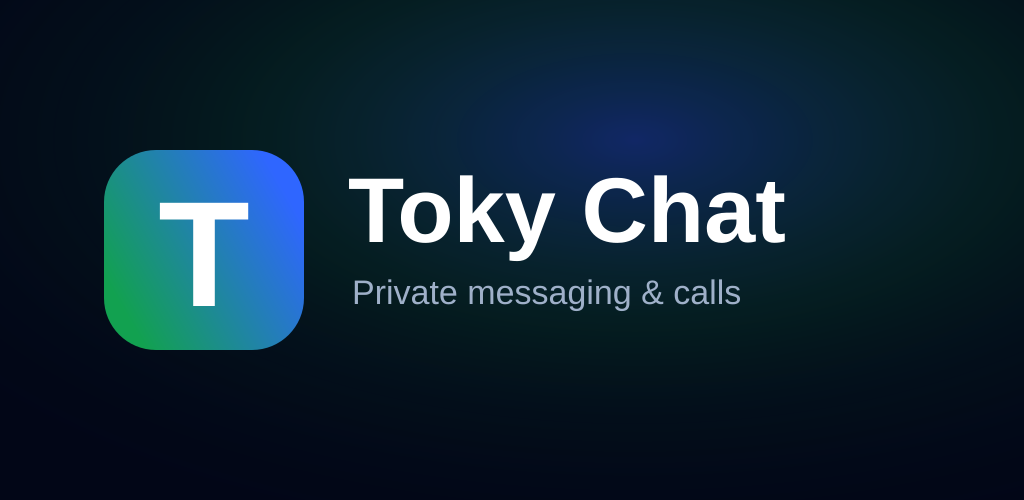
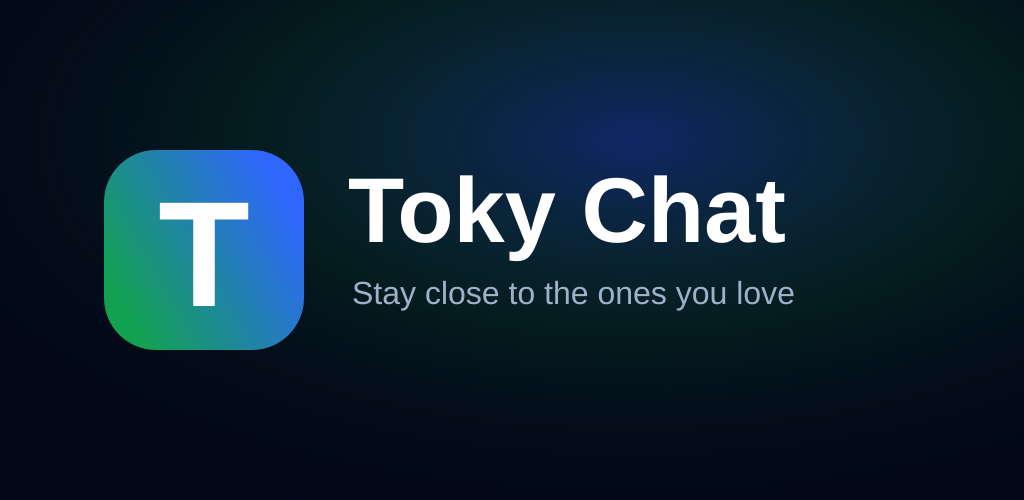
Reposition store copy around connection ("the people you love") (#8)
Shift the brand promise from 'private messaging & calls' to staying close to the
people you love, with privacy as a supporting benefit. Updates the feature
graphic tagline and the subtitle/promo/description/keywords across STORE_LISTING
and STORE_SUBMISSION (EN + ES).

Claude-Session: https://claude.ai/code/session_01EuC7GRd1EMMmDhqLAwnDok

Changed region(s): [[0.3438, 0.54, 0.7812, 0.63]]

diff --git a/docs/STORE_LISTING.md b/docs/STORE_LISTING.md
@@ -19,8 +19,8 @@ this file is only the marketing listing.
 | Field | Value |
 |---|---|
 | **App Name** (≤30) | Toky Chat |
-| **Subtitle** (≤30) — EN | Private messaging & calls |
-| **Subtitle** (≤30) — ES | Mensajes y llamadas privados |
+| **Subtitle** (≤30) — EN | Stay close to those you love |
+| **Subtitle** (≤30) — ES | Cerca de quienes amas |
 | **Primary category** | Social Networking |
 | **Secondary category** | Productivity |
 | **Support URL** | https://mobile-chat-mvp.vercel.app/support |
@@ -29,22 +29,22 @@ this file is only the marketing listing.
 | **Age rating** | 17+ (user-generated content + communication) |
 
 **Promotional Text** (≤170) — EN
-> Fast, private messaging with voice & video calls, group chats, stories, and end-to-end encryption. Your conversations, your control.
+> Toky Chat keeps you close to the people you love — send messages, share moments, and jump on voice or video calls, one-on-one or in groups. Private by design.
 
 **Promotional Text** (≤170) — ES
-> Mensajería rápida y privada con llamadas de voz y video, grupos, historias y cifrado de extremo a extremo. Tus conversaciones, bajo tu control.
+> Toky Chat te mantiene cerca de quienes amas: envía mensajes, comparte momentos y haz llamadas de voz o video, individuales o en grupo. Privado por diseño.
 
 **Keywords** (≤100, comma-separated, no spaces) — EN
 ```
-chat,messenger,messaging,video call,voice call,groups,encrypted,private,stories,calls
+chat,messenger,family,friends,video call,voice call,groups,connect,private,calls
 ```
 **Keywords** (≤100) — ES
 ```
-chat,mensajería,mensajero,videollamada,llamadas,grupos,cifrado,privado,historias,mensajes
+chat,mensajería,familia,amigos,videollamada,llamadas,grupos,conectar,privado,historias
 ```
 
 **Description** (≤4000) — EN
-> Toky Chat is a fast, modern messenger for staying close to the people who matter. Send messages, share photos, videos, GIFs and emoji, react, and start voice or video calls — one-on-one or in groups. Turn on end-to-end encryption for private chats only you and the recipient can read. Share moments with stories, keep an eye on your call history, and get notified the moment a message arrives — even when the app is closed.
+> Toky Chat is where you stay close to the people you love — a fast, modern messenger for the people who matter most. Send messages, share photos, videos, GIFs and emoji, react, and start voice or video calls — one-on-one or in groups. Turn on end-to-end encryption for private chats only you and the recipient can read. Share moments with stories, keep an eye on your call history, and get notified the moment a message arrives — even when the app is closed.
 >
 > • Voice & video calls, with in-call switch to video
 > • Group chats, reactions, polls, and stories
@@ -52,10 +52,10 @@ chat,mensajería,mensajero,videollamada,llamadas,grupos,cifrado,privado,historia
 > • Block, report, and mute to stay in control
 > • Available in English and Spanish
 >
-> No ads. No tracking. Just conversations.
+> No ads. No tracking. Just the people you love.
 
 **Description** (≤4000) — ES
-> Toky Chat es un mensajero rápido y moderno para mantenerte cerca de las personas que importan. Envía mensajes, comparte fotos, videos, GIFs y emojis, reacciona e inicia llamadas de voz o video, individuales o en grupo. Activa el cifrado de extremo a extremo para chats privados que solo tú y el destinatario pueden leer. Comparte momentos con historias, revisa tu historial de llamadas y recibe notificaciones en el instante en que llega un mensaje, incluso con la app cerrada.
+> Toky Chat es donde te mantienes cerca de quienes amas: un mensajero rápido y moderno para las personas que más importan. Envía mensajes, comparte fotos, videos, GIFs y emojis, reacciona e inicia llamadas de voz o video, individuales o en grupo. Activa el cifrado de extremo a extremo para chats privados que solo tú y el destinatario pueden leer. Comparte momentos con historias, revisa tu historial de llamadas y recibe notificaciones en el instante en que llega un mensaje, incluso con la app cerrada.
 >
 > • Llamadas de voz y video, con cambio a video durante la llamada
 > • Chats grupales, reacciones, encuestas e historias
@@ -63,7 +63,7 @@ chat,mensajería,mensajero,videollamada,llamadas,grupos,cifrado,privado,historia
 > • Bloquea, reporta y silencia para mantener el control
 > • Disponible en español e inglés
 >
-> Sin anuncios. Sin rastreo. Solo conversaciones.
+> Sin anuncios. Sin rastreo. Solo quienes amas.
 
 **App Review — Notes to reviewer**
 > The app's UI loads from our hosted web app inside a native shell (Capacitor);
@@ -89,13 +89,13 @@ chat,mensajería,mensajero,videollamada,llamadas,grupos,cifrado,privado,historia
 | **Content rating** | Teen / Mature 17+ (IARC questionnaire) |
 
 **Short description** (≤80) — EN
-> Private messaging with voice & video calls, groups, and encryption.
+> Stay close to the people you love — chats, voice & video calls, and groups.
 
 **Short description** (≤80) — ES
-> Mensajería privada con llamadas de voz y video, grupos y cifrado.
+> Mantente cerca de quienes amas: chats, llamadas de voz y video, y grupos.
 
 **Full description** (≤4000) — EN
-> Toky Chat is a fast, modern messenger for staying close to the people who matter. Send messages, share photos, videos, GIFs and emoji, react, and start voice or video calls — one-on-one or in groups. Turn on end-to-end encryption for private chats only you and the recipient can read. Share moments with stories, keep an eye on your call history, and get notified the moment a message arrives — even when the app is closed.
+> Toky Chat is where you stay close to the people you love — a fast, modern messenger for the people who matter most. Send messages, share photos, videos, GIFs and emoji, react, and start voice or video calls — one-on-one or in groups. Turn on end-to-end encryption for private chats only you and the recipient can read. Share moments with stories, keep an eye on your call history, and get notified the moment a message arrives — even when the app is closed.
 >
 > Features:
 > • Voice & video calls, with in-call switch to video
@@ -104,10 +104,10 @@ chat,mensajería,mensajero,videollamada,llamadas,grupos,cifrado,privado,historia
 > • Block, report, and mute to stay in control
 > • Available in English and Spanish
 >
-> No ads. No tracking. Just conversations.
+> No ads. No tracking. Just the people you love.
 
 **Full description** (≤4000) — ES
-> Toky Chat es un mensajero rápido y moderno para mantenerte cerca de las personas que importan. Envía mensajes, comparte fotos, videos, GIFs y emojis, reacciona e inicia llamadas de voz o video, individuales o en grupo. Activa el cifrado de extremo a extremo para chats privados que solo tú y el destinatario pueden leer. Comparte momentos con historias, revisa tu historial de llamadas y recibe notificaciones al instante, incluso con la app cerrada.
+> Toky Chat es donde te mantienes cerca de quienes amas: un mensajero rápido y moderno para las personas que más importan. Envía mensajes, comparte fotos, videos, GIFs y emojis, reacciona e inicia llamadas de voz o video, individuales o en grupo. Activa el cifrado de extremo a extremo para chats privados que solo tú y el destinatario pueden leer. Comparte momentos con historias, revisa tu historial de llamadas y recibe notificaciones al instante, incluso con la app cerrada.
 >
 > Funciones:
 > • Llamadas de voz y video, con cambio a video durante la llamada
@@ -116,7 +116,7 @@ chat,mensajería,mensajero,videollamada,llamadas,grupos,cifrado,privado,historia
 > • Bloquea, reporta y silencia para mantener el control
 > • Disponible en español e inglés
 >
-> Sin anuncios. Sin rastreo. Solo conversaciones.
+> Sin anuncios. Sin rastreo. Solo quienes amas.
 
 **App access — test credentials** (Play Console → App content → App access)
 > All functionality requires sign-in. Provide these reviewer credentials:

diff --git a/docs/STORE_SUBMISSION.md b/docs/STORE_SUBMISSION.md
@@ -114,20 +114,20 @@ practices."
 ## 5. Store listing copy
 
 **App name:** Toky Chat
-**Subtitle (Apple, ≤30):** Private messaging & calls
+**Subtitle (Apple, ≤30):** Stay close to those you love
 **Primary category:** Social Networking · **Secondary:** Productivity
 
 **Promotional text (≤170):**
-Fast, private messaging with voice & video calls, group chats, stories, and
-end-to-end encryption. Your conversations, your control.
+Toky Chat keeps you close to the people you love — send messages, share moments,
+and jump on voice or video calls, one-on-one or in groups. Private by design.
 
 **Description:**
-> Toky Chat is a fast, modern messenger for staying close to the people who
-> matter. Send messages, share photos, videos, GIFs and emoji, react, and start
-> voice or video calls — one-on-one or in groups. Turn on end-to-end encryption
-> for private chats only you and the recipient can read. Share moments with
-> stories, keep an eye on your call history, and get notified the moment a
-> message arrives — even when the app is closed.
+> Toky Chat is where you stay close to the people you love. Send messages, share
+> photos, videos, GIFs and emoji, react, and start voice or video calls —
+> one-on-one or in groups. Turn on end-to-end encryption for private chats only
+> you and the people you love can read. Share moments with stories, keep an eye
+> on your call history, and get notified the moment someone reaches out — even
+> when the app is closed.
 >
 > • Voice & video calls, with in-call switch to video
 > • Group chats, reactions, polls, and stories
@@ -135,10 +135,10 @@ end-to-end encryption. Your conversations, your control.
 > • Block, report, and mute to stay in control
 > • Available in English and Spanish
 >
-> No ads. No tracking. Just conversations.
+> No ads. No tracking. Just the people you love.
 
 **Keywords (Apple, ≤100 chars):**
-chat,messenger,messaging,video call,voice call,groups,encrypted,private,stories,calls
+chat,messenger,family,friends,video call,voice call,groups,connect,private,calls
 
 **Required URLs:**
 - Privacy Policy: `https://mobile-chat-mvp.vercel.app/privacy`
